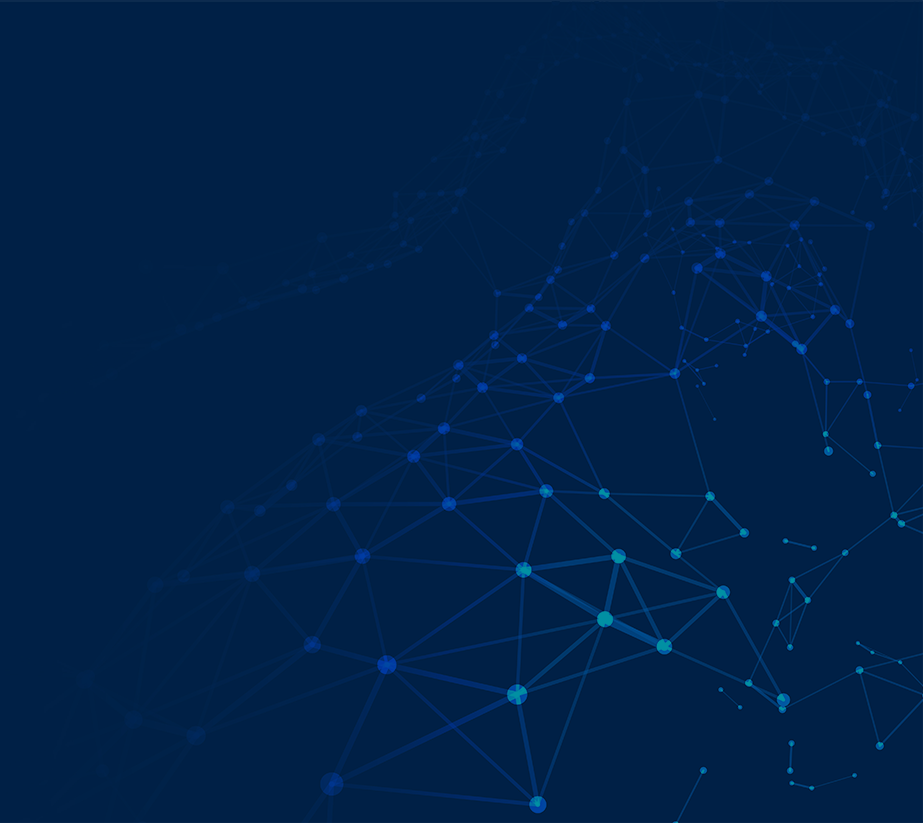
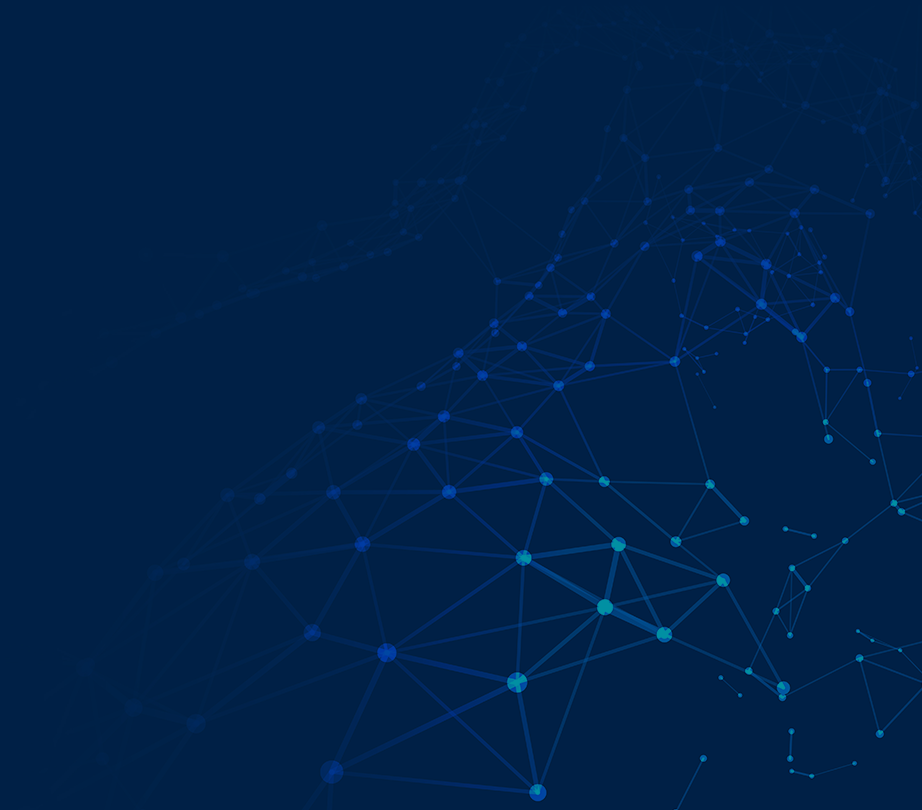
Inicia Contatos

diff --git a/index.html b/index.html
@@ -5,12 +5,13 @@
     <meta charset="UTF-8">
     <meta http-equiv="X-UA-Compatible" content="IE=edge">
     <meta name="viewport" content="width=device-width, initial-scale=1.0">
-    <link rel="stylesheet" href="reset.css">
+    <link rel="stylesheet" href="./assets/css/reset.css">
 
     <link rel="stylesheet" href="./assets/css/style.css">
     <link rel="stylesheet" href="./assets/css/menu.css">
     <link rel="stylesheet" href="./assets/css/sobre-mim.css">
     <link rel="stylesheet" href="./assets/css/projetos.css">
+    <link rel="stylesheet" href="./assets/css/contato.css">
 
     <link rel="preconnect" href="https://fonts.googleapis.com">
     <link rel="preconnect" href="https://fonts.gstatic.com" crossorigin>
@@ -49,63 +50,64 @@
         <h2 class="projetos__titulo">Projetos</h2>
         <!-- Decodificador -->
         <div class="projetos__div">
-            <img class="projetos__img" src="./assets/img/decodificador.png" alt="Decodificador de texto">
-            <div class="projetos__info">
-                <h2 class="projetos__nome">Decodificador de texto</h2>
-                <div class="projetos__logos">
-                    <img class="projetos__logos--html" src="https://cdn.jsdelivr.net/gh/devicons/devicon/icons/html5/html5-original-wordmark.svg" alt="Logo HTML" />
-                    <img class="projetos__logos--css" src="https://cdn.jsdelivr.net/gh/devicons/devicon/icons/css3/css3-original-wordmark.svg" alt="Logo CSS"/>
-                    <img class="projetos__logos--javascript" src="https://cdn.jsdelivr.net/gh/devicons/devicon/icons/javascript/javascript-original.svg" alt="Logo JavaScript"/>
-                </div>
-                <div class="projetos__botoes">
-                    <a href="https://github.com/otaviomeschieri/decodificador-de-texto" target="_blank"><button class="projetos__repositorio">Repositório</button></a>
-                    <a href="https://otaviomeschieri.github.io/decodificador-de-texto/" target="_blank"><button class="projetos__demo">Ver demo</button></a>
+            <div class="projetos__container">
+                <img class="projetos__img" src="../assets/img/decodificador.png" alt="Decodificador de texto">
+                <div class="projetos__info">
+                    <h2 class="projetos__nome">Decodificador de texto</h2>
+                    <div class="projetos__logos">
+                        <img class="projetos__logos--html" src="https://cdn.jsdelivr.net/gh/devicons/devicon/icons/html5/html5-original-wordmark.svg" alt="Logo HTML" />
+                        <img class="projetos__logos--css" src="https://cdn.jsdelivr.net/gh/devicons/devicon/icons/css3/css3-original-wordmark.svg" alt="Logo CSS"/>
+                        <img class="projetos__logos--javascript" src="https://cdn.jsdelivr.net/gh/devicons/devicon/icons/javascript/javascript-original.svg" alt="Logo JavaScript"/>
+                    </div>
+                    <div class="projetos__botoes">
+                        <a href="https://github.com/otaviomeschieri/decodificador-de-texto" target="_blank"><button class="projetos__repositorio">Repositório</button></a>
+                        <a href="https://otaviomeschieri.github.io/decodificador-de-texto/" target="_blank"><button class="projetos__demo">Ver demo</button></a>
+                    </div>
                 </div>
             </div>
         </div>
 
         <!-- Forca -->
         <div class="projetos__div">
-            <img class="projetos__img" src="./assets/img/forca.png" alt="Jogo da forca">
-            <div class="projetos__info">
-                <h2 class="projetos__nome">Jogo da Forca</h2>
-                <div class="projetos__logos">
-                    <img class="projetos__logos--html" src="https://cdn.jsdelivr.net/gh/devicons/devicon/icons/html5/html5-original-wordmark.svg" alt="Logo HTML" />
-                    <img class="projetos__logos--css" src="https://cdn.jsdelivr.net/gh/devicons/devicon/icons/css3/css3-original-wordmark.svg" alt="Logo CSS"/>
-                    <img class="projetos__logos--javascript" src="https://cdn.jsdelivr.net/gh/devicons/devicon/icons/javascript/javascript-original.svg" alt="Logo JavaScript"/>
-                </div>
-                <div class="projetos__botoes">
-                    <a href="https://github.com/otaviomeschieri/jogo-da-forca" target="_blank"><button class="projetos__repositorio">Repositório</button></a>
-                    <a href="https://otaviomeschieri.github.io/jogo-da-forca/" target="_blank"><button class="projetos__demo">Ver demo</button></a>
+            <div class="projetos__container">
+                <img class="projetos__img" src="../assets/img/forca.png" alt="Jogo da forca">
+                <div class="projetos__info">
+                    <h2 class="projetos__nome">Jogo da Forca</h2>
+                    <div class="projetos__logos">
+                        <img class="projetos__logos--html" src="https://cdn.jsdelivr.net/gh/devicons/devicon/icons/html5/html5-original-wordmark.svg" alt="Logo HTML" />
+                        <img class="projetos__logos--css" src="https://cdn.jsdelivr.net/gh/devicons/devicon/icons/css3/css3-original-wordmark.svg" alt="Logo CSS"/>
+                        <img class="projetos__logos--javascript" src="https://cdn.jsdelivr.net/gh/devicons/devicon/icons/javascript/javascript-original.svg" alt="Logo JavaScript"/>
+                    </div>
+                    <div class="projetos__botoes">
+                        <a href="https://github.com/otaviomeschieri/jogo-da-forca" target="_blank"><button class="projetos__repositorio">Repositório</button></a>
+                        <a href="https://otaviomeschieri.github.io/jogo-da-forca/" target="_blank"><button class="projetos__demo">Ver demo</button></a>
+                    </div>
                 </div>
             </div>
         </div>
 
         <!-- Novos projetos -->
         <div class="projetos__div">
-            <img class="projetos__img" src="./assets/img/carregando.png" alt="Carregando">
-            <div class="projetos__info">
-                <h2 class="projetos__nome">Novos projetos em breve...</h2>
+            <div class="projetos__container">
+                <img class="projetos__img" src="../assets/img/carregando.png" alt="Carregando">
+                <div class="projetos__info">
+                    <h2 class="projetos__nome">Novos projetos em breve...</h2>
+                </div>
             </div>
         </div>
 
-        <!-- Sessão de Contato -->
-        <section class="formcontato">
-            <div id="contato" class="formcontato__contacto">
-                <div class="formcontato__text">
-                    <h2 class="formcontato__title">Contato</h2>
-                    <h3 class="formcontato__subtext">Quer entrar em contato comigo?</h3>
-                    <h3 class="formcontato__subtext">Preencha o formulário ao lado e entrarei em contato o mais rápido
-                        possível. </h3>
-                    <form class="formcontato__form">
-                        <input class="formcontato__input" type="text" id="nome" placeholder="Nome">
-                        <input class="formcontato__input" type="email" id="email" placeholder="Email">
-                        <input class="formcontato__input" type="text" id="assunto" placeholder="Assunto">
-                        <textarea class="formcontato__textarea" rows="5" cols="40" id="mensagem" name="mensagem"
-                            placeholder="Sua mensagem"></textarea>
-                        <button class="formcontato__botao">Enviar mensagem</button>
-                    </form>
-                </div>
+        <!-- Contato -->
+        <section class="contato">
+            <div id="contato__formulario" class="contato__formulario">
+                    <h2 class="contato__titulo">Vamos conversar!</h2>
+                    <h3 class="contato__texto">Preencha o formulário e entre em contato.</h3>
+                    <form class="contato__formulario">
+                    <input class="contato__input" type="text" id="nome" placeholder="Nome">
+                    <input class="contato__input" type="email" id="email" placeholder="Email">
+                    <input class="contato__input" type="text" id="assunto" placeholder="Assunto">
+                    <textarea class="contato__textarea" rows="5" cols="40" id="mensagem" name="mensagem" placeholder="Sua mensagem"></textarea>
+                    <button class="contato__botao">Enviar mensagem</button>
+                </form>
             </div>
         </section>
 

diff --git a/assets/css/sobre-mim.css b/assets/css/sobre-mim.css
@@ -1,7 +1,7 @@
 section.sobre-mim {
-    background-attachment: fixed;
+    /* background-attachment: fixed; */
     background-color: var(--azul-escuro);
-    background-image: url('./assets/img/fundo3.png');
+    background-image: url(../img/fundo5.png);
     background-repeat: no-repeat;
     background-size: contain;
     background-position: right bottom;
@@ -10,26 +10,25 @@ section.sobre-mim {
     /* height: 100vh; */
 }
 
-.sobre-mim__container h2,
-p {
+.sobre-mim__container h2, p {
     color: var(--branco);
 }
 
 .sobre-mim__ola-mundo {
-    font-size: 1.7rem;
+    font-size: 1.5rem;
     padding: 4rem 3rem 4.8rem;
 }
 
 .sobre-mim__nome {
-    font-size: 2rem;
+    font-size: 1.7rem;
     font-weight: 700;
-    padding: 0 3rem;
+    padding-left: 3rem;
     text-transform: uppercase;
     border-right: 4px solid;
-    width: 19ch;
+    width: 22ch;
     white-space: nowrap;
     overflow: hidden;
-    animation: typing 2s steps(19), blinking 0.5s infinite step-end alternate;
+    animation: typing 2s steps(22), blinking 0.5s infinite step-end alternate;
 }
 
 .sobre-mim__paragrafo {
@@ -37,7 +36,7 @@ p {
     font-weight: 700;
     line-height: 2;
     /* margin-right: 5rem; */
-    padding: 6.3rem 4rem 0 3rem;
+    padding: 6.3rem 2.5rem 0 3rem;
     text-align: justify;
 }
 

diff --git a/assets/css/projetos.css b/assets/css/projetos.css
@@ -19,7 +19,12 @@ section.projetos {
 }
 
 .projetos__div {
-    padding: 5rem 1rem 0;
+    padding-top: 5rem;
+}
+
+.projetos__container {
+    border-bottom: 1px solid var(--preto);
+    margin: 0 1rem;
 }
 
 .projetos__div:nth-child(odd) {
@@ -29,6 +34,7 @@ section.projetos {
 .projetos__img {
     display: block;
     margin: auto;
+    padding: 0 1rem;
     width: 85%;
 }
 
@@ -55,12 +61,12 @@ section.projetos {
 }
 
 .projetos__botoes {
-    border-bottom: 1px solid var(--preto);
+    /* border-bottom: 1px solid var(--preto); */
     display: flex;
-    justify-content: space-around;
+    justify-content: space-between;
     margin: 4rem auto 0;
-    padding-bottom: 4.2rem;
-    width: 25.7rem;
+    padding: 0 1rem 4.2rem;
+    width: 21.2rem;
 }
 
 .projetos__repositorio, .projetos__demo {
